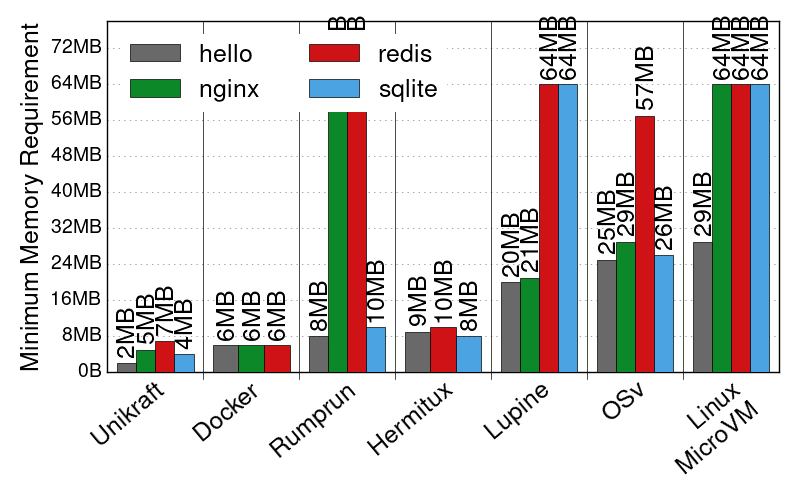
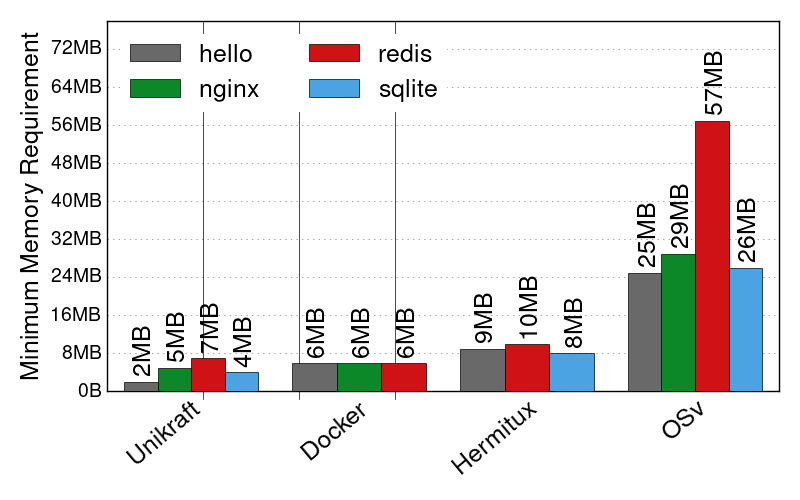
update: minmen image

Changed region(s): [[0.0, 0.03, 1.0, 0.96], [0.4062, 0.03, 0.4688, 0.06]]

diff --git a/experiments/fig_11_compare-min-mem/plot.py b/experiments/fig_11_compare-min-mem/plot.py
@@ -69,10 +69,10 @@ def plot(data=None, output=None):
     'unikraft': 'Unikraft',
     'docker': 'Docker',
     'hermitux': 'Hermitux',
-    'lupine': 'Lupine',
+    #'lupine': 'Lupine',
     'osv': 'OSv',
-    'rump': 'Rumprun',
-    'microvm': 'Linux\nMicroVM'
+    #'rump': 'Rumprun',
+    #'microvm': 'Linux\nMicroVM'
   }
 
   for f in os.listdir(RESULTSDIR):
@@ -124,7 +124,15 @@ def plot(data=None, output=None):
 
   i = 0
   line_offset = 0
-  for unikernel in ['unikraft', 'docker', 'rump', 'hermitux', 'lupine', 'osv', 'microvm']:
+  for unikernel in [
+          'unikraft', 
+          'docker', 
+          #'rump', 
+          'hermitux', 
+          #'lupine', 
+          'osv' 
+          #'microvm'
+          ]:
     xlabels.append(labels[unikernel])
     apps = memstats[unikernel]
 
